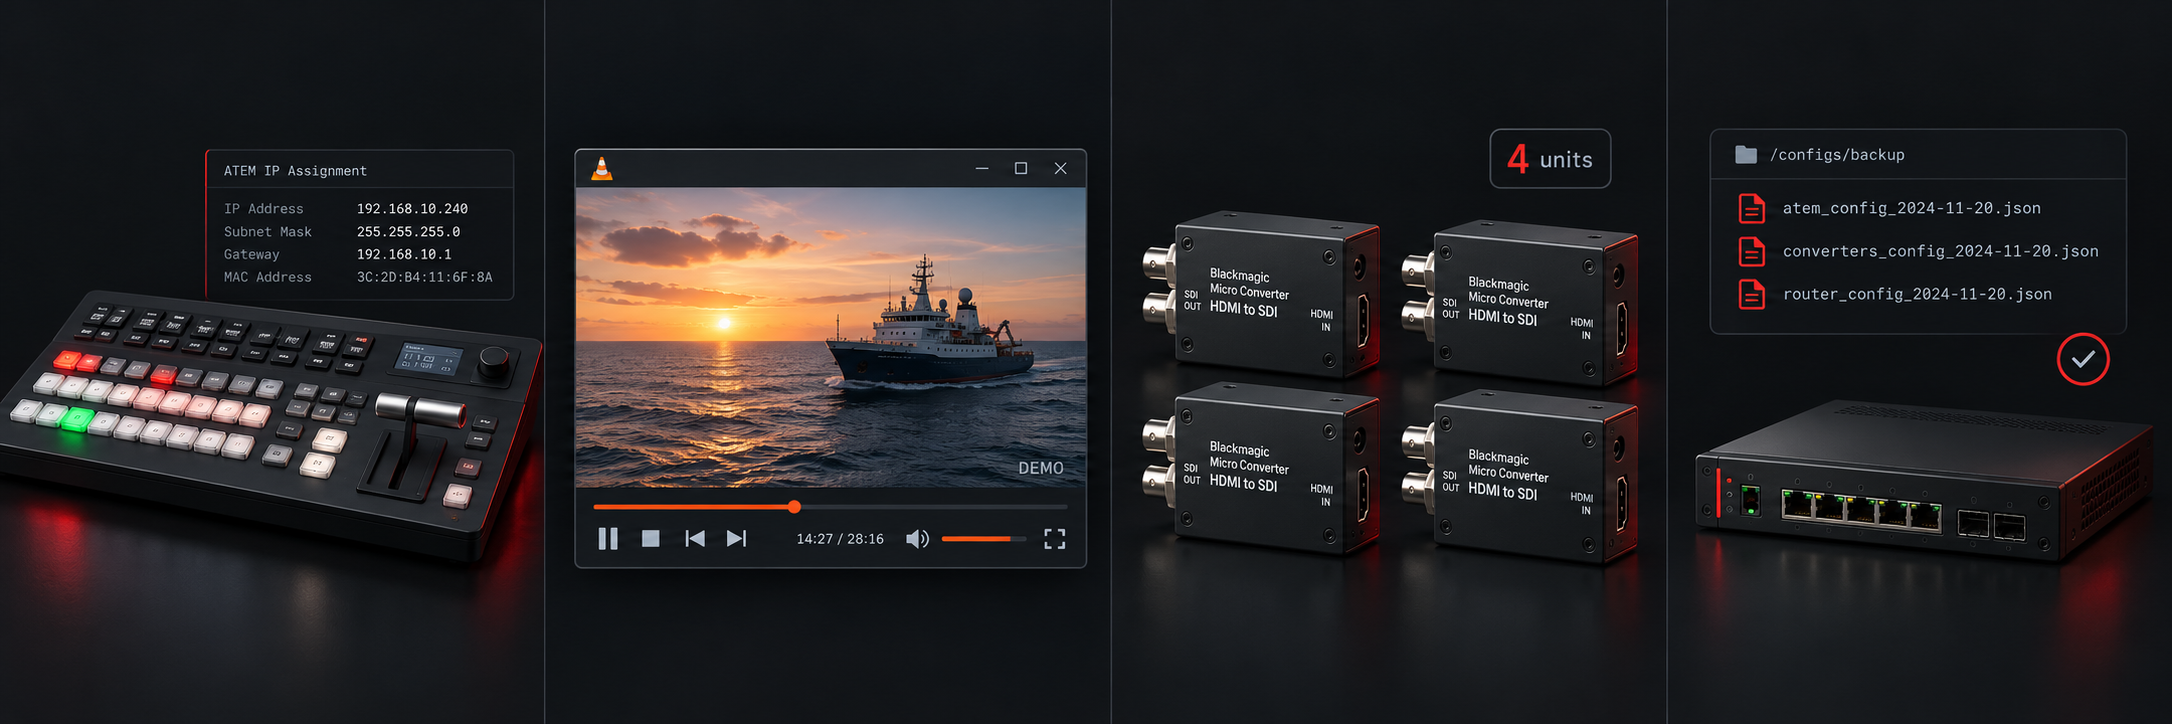
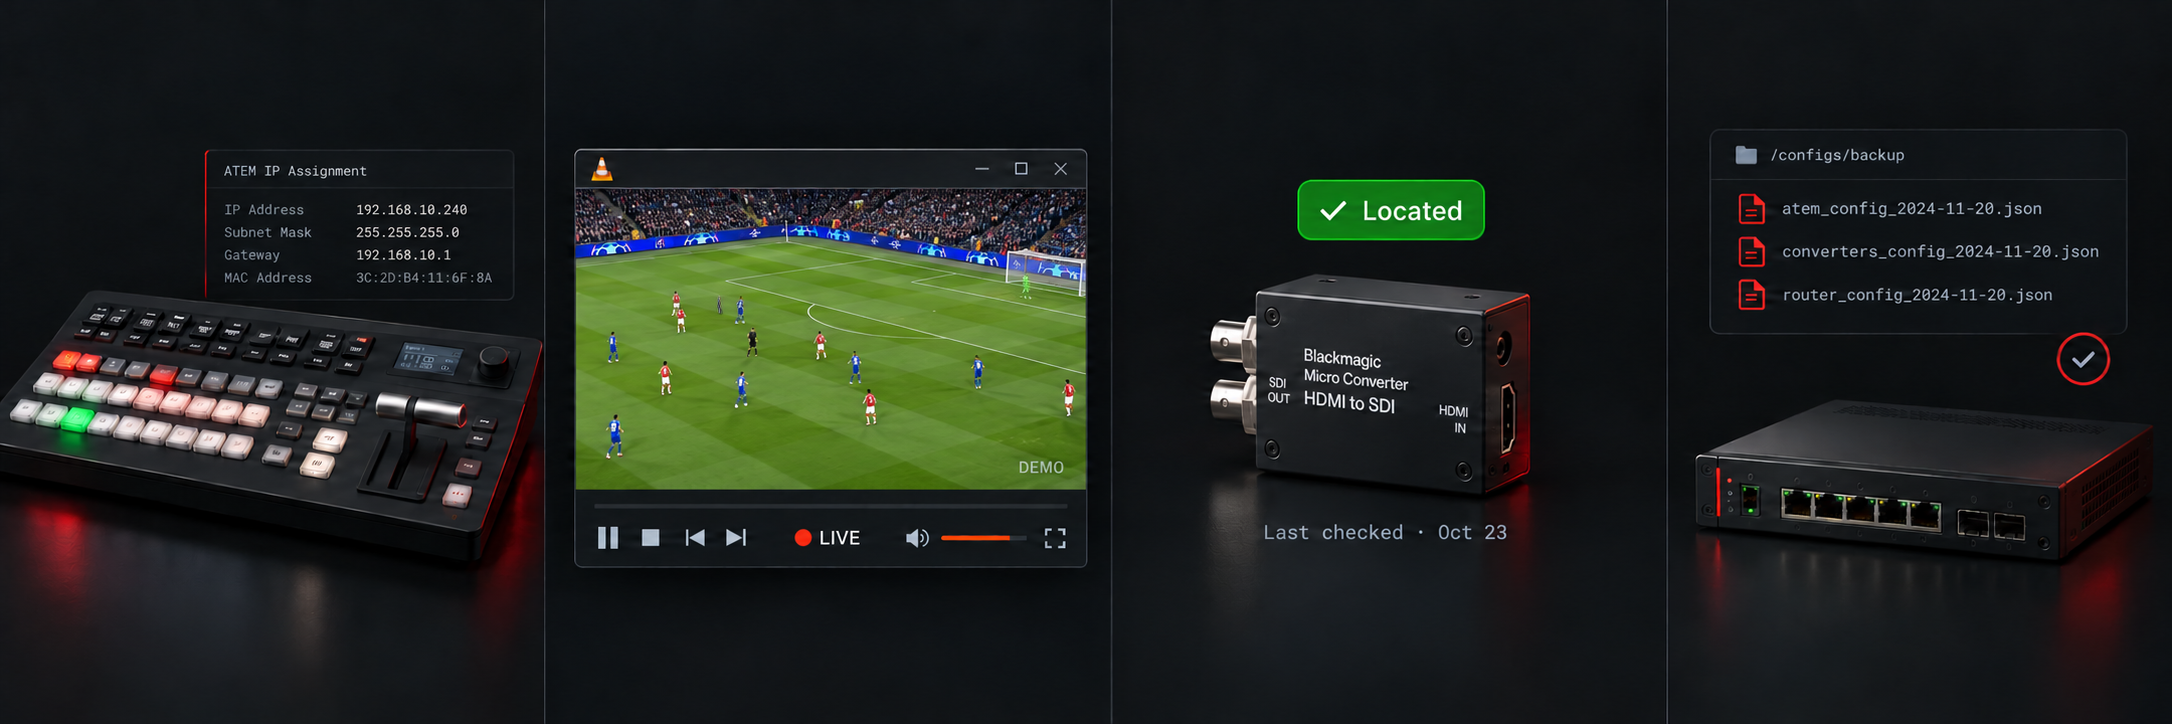
Show live football and inventory check details in homepage examples

diff --git a/static/index.html b/static/index.html
@@ -18,7 +18,7 @@
 <section class="heading"><div class="hero-copy"><p class="eyebrow">SHIPBOARD · BROADCAST OPERATIONS</p><h1 id="hero-title">Every device. Every stream.<br>Every venue. <span>All in one place.</span></h1><p class="intro" id="hero-intro">Track your ship’s Devices, IPTV channels, and equipment across every venue. Stay organized wherever you work. Find what you need and export it in seconds.</p></div><div class="hero-side"><aside class="network-card" aria-label="Example device assignment"><div class="network-card-top"><span>EXAMPLE ASSIGNMENT</span><img src="/icon.svg" width="36" height="36" alt=""></div><div id="example-media" class="example-media"><img src="/example-switcher.png" alt="Illustration of an ATEM 1 M/E Advanced Panel 10" width="300" height="160"></div><p class="network-ip" id="example-ip">10.24.176.67</p><p class="network-name" id="example-name">ATEM 1 M/E Advanced Panel 10</p><div class="network-tags" id="example-tags"><span>Liquid Lounge</span><span>Video</span><span>VLAN 1500</span></div></aside></div></section>
 <figure class="home-workspace-examples" aria-label="Examples from AVTrack’s four workspaces">
 <div class="workspace-example-labels" aria-hidden="true"><span>Devices</span><span>IPTV channels</span><span>Equipment inventory</span><span>Configuration backups</span></div>
-<img src="/workspace-examples.png" width="2172" height="724" alt="Four AVTrack examples: a broadcast control panel with an IP assignment, a simulated channel playing in VLC, four Blackmagic Micro Converter HDMI/SDI units, and saved configuration files.">
+<img src="/workspace-examples.png" width="2172" height="724" alt="Four AVTrack examples: a broadcast control panel with an IP assignment, a simulated live football match in VLC without a duration counter, one Blackmagic Micro Converter marked Located with Last checked Oct 23, and saved configuration files.">
 <figcaption>Illustrative examples · Simulated channel playback</figcaption>
 </figure>
 <section id="homepage-overview" class="homepage-overview" aria-labelledby="overview-title">

diff --git a/static/service-worker.js b/static/service-worker.js
@@ -1,4 +1,4 @@
-const CACHE = 'avtrack-offline-v100';
+const CACHE = 'avtrack-offline-v101';
 const ASSETS = ["/workspace-ui.js", "/desktop.js", "/workspace-transfer.js", "/demo", "/demo.js", "/demo.css", "/avtrack", "/avtrack/", "/landing.css", "/landing.js", "/", "/inventory", "/backups", "/app.js", "/equipment.js", "/backups.js", "/inventory-columns.js", "/inventory-templates.json", "/import-workflow.js", "/paste-workflow.js", "/import-review.js", "/style.css", "/icon.svg", "/favicon.svg", "/example-switcher.png", "/workspace-examples.png", "/satellite-channels.json", "/fonts/DMSans-Variable.woff2", "/fonts/SpaceGrotesk-Variable.woff2", "/fonts/JetBrainsMono-Variable.woff2", "/broadcastgab-offline", "/broadcastgab-assets/99c587af0b09e348.jpg", "/broadcastgab-assets/2509de87cd2a6ed2.jpg", "/broadcastgab-assets/0ebd30f9e4522736.css", "/broadcastgab-assets/6ec5746ae70a5add.jpg", "/broadcastgab-assets/ba325f4eda249fd8.jpg", "/broadcastgab-assets/07ba2fa083ce2a5a.png", "/broadcastgab-assets/7f20e61f42847170.jpg", "/broadcastgab-assets/54b4107511881050.png", "/broadcastgab-assets/a7c0c0521d21d16e.jpg", "/broadcastgab-assets/7d92686e34884d95.jpg", "/broadcastgab-assets/c4e483c425e2899c.jpg", "/broadcastgab-assets/cc475126aca2df87.jpg", "/broadcastgab-assets/offline.css", "/broadcastgab-assets/00122b6d34334d92.jpg", "/broadcastgab-assets/747d480b108caa00.jpg"];
 const PATHS = new Set(ASSETS);
 self.addEventListener('install', event => {

diff --git a/static/style.css b/static/style.css
@@ -1169,3 +1169,15 @@ body.home-workspace .home-workspace-examples { display:block; margin:0 0 40px; p
   body.home-workspace .home-workspace-examples { padding:10px; margin-bottom:28px; }
   .workspace-example-labels { gap:6px; font-size:8px; }
 }
+
+#equipment-panel { min-width:0; }
+#equipment-panel .equipment-table-wrap { max-width:100%; min-width:0; }
+@media(max-width:600px) {
+  #equipment-panel .equipment-filters { grid-template-columns:minmax(0,1fr); }
+  #equipment-panel .equipment-location-group { grid-column:1; grid-row:1; }
+  #equipment-panel .equipment-status-group { grid-column:1; grid-row:2; }
+  #equipment-panel .equipment-search-group { grid-column:1; grid-row:3; }
+  #equipment-panel .equipment-custom-filters { grid-column:1; grid-row:4; min-width:0; }
+  #equipment-panel .equipment-filters fieldset { min-width:0; }
+  #equipment-panel .panel-footer { flex-wrap:wrap; }
+}

diff --git a/tests/browser_imported_table_fit_check.py b/tests/browser_imported_table_fit_check.py
@@ -77,7 +77,12 @@ with tempfile.TemporaryDirectory() as tmp:
             page.set_viewport_size({'width':1440,'height':1000})
             page.screenshot(path=str(out/'avtrack-imported-table-desktop.png'),full_page=True)
             page.set_viewport_size({'width':390,'height':844})
-            assert page.evaluate('document.documentElement.scrollWidth<=innerWidth'), 'Table overflow escaped its scroll region'
+            page.wait_for_timeout(250)
+            overflow=page.evaluate("""()=>[...document.querySelectorAll('body *')].filter(n=>{
+                const r=n.getBoundingClientRect();return r.width && r.right>innerWidth+1 &&
+                !n.closest('.equipment-table-wrap,dialog,[hidden]');
+            }).map(n=>({tag:n.tagName,id:n.id,cls:n.className,right:n.getBoundingClientRect().right,width:n.getBoundingClientRect().width})).slice(0,25)""")
+            assert page.evaluate('document.documentElement.scrollWidth<=innerWidth'), overflow
             page.screenshot(path=str(out/'avtrack-imported-table-mobile.png'),full_page=True)
             assert not errors,errors
             browser.close()
